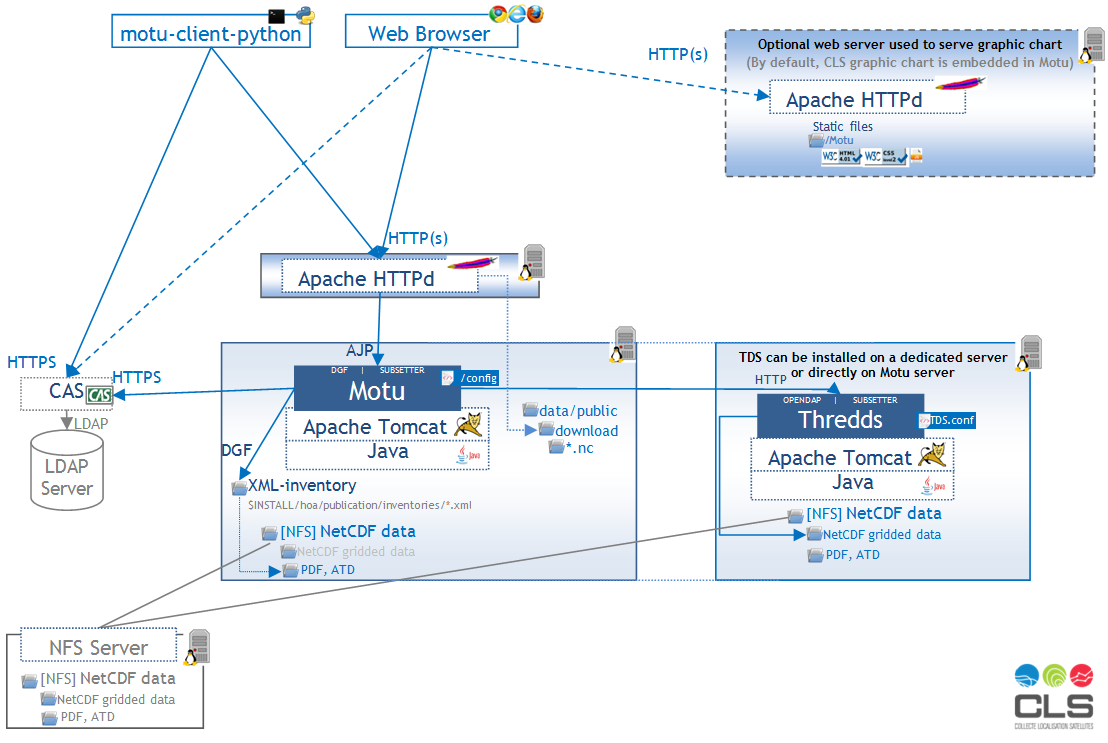
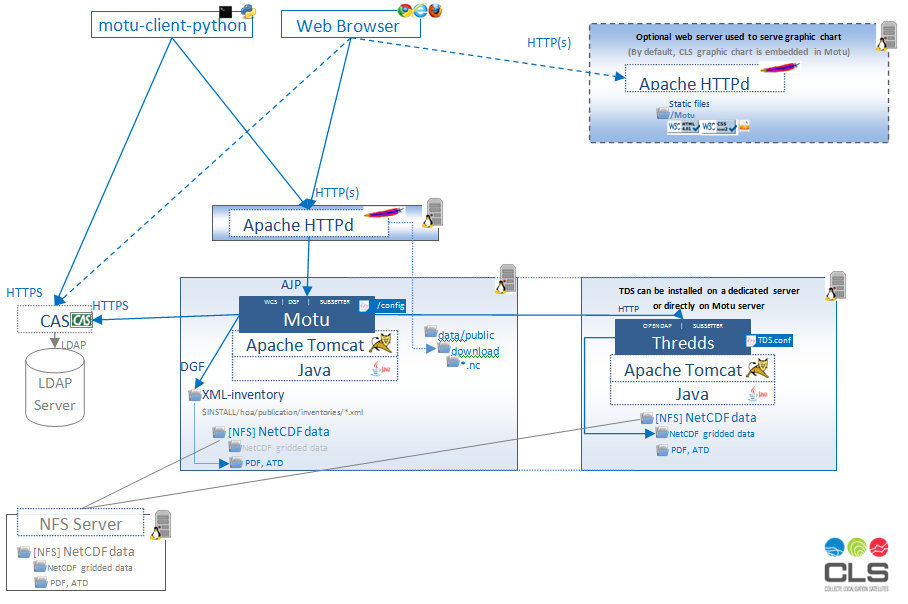
Add WCS in README architecture diagram

diff --git a/README.md b/README.md
@@ -133,6 +133,7 @@ The main project is "motu-web". This project is divided in three main layers det
 * __usl/servlet/context/MotuWebEngineContextListener.java__: Apache tomcat ServletContextListener used to init and stop the application.  
 * __usl/request__: All requests are managed with the "motu/web/servlet/MotuServlet.java" by following a command pattern. "action" HTTP parameter matches one of the "usl/request/actions" classes.  
 * __usl/response__: XML and [Apache velocity](https://velocity.apache.org/) data model.  
+* __usl/wcs__: All WCS requests and responses are managed in this package. The servlet entry point is defined with the class "motu/web/servlet/MotuWCSServlet.java".
 
 #### <a name="ArchitectureDesignDBLL">BLL</a>  
 * __bll/catalog__: Catalog and Product managers. Package "bll/catalog/product/cache" contains the product cache.
